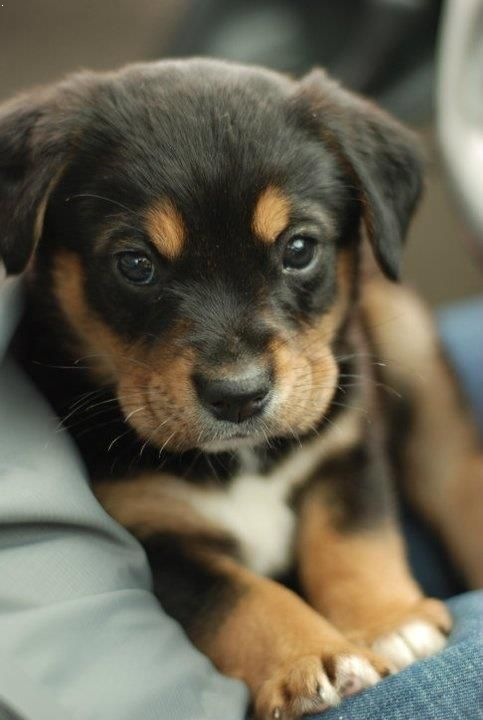
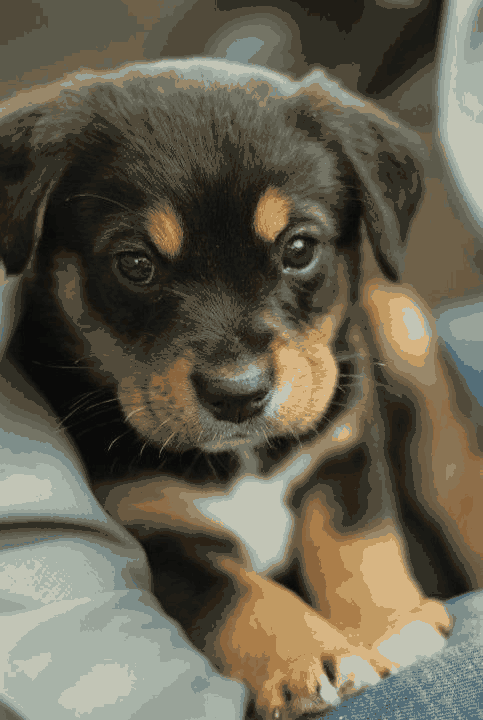
Implemented k_means clustering fully

diff --git a/quantize_k_means.py b/quantize_k_means.py
@@ -5,7 +5,7 @@ img = Image.open("puppy.jpg") # Just put the local filename in quotes.
 # img.show() # Send the image to your OS to be displayed as a temporary file (the before picture)
 WIDTH, HEIGHT = img.size
 pix = img.load() # Pix is a pixel manipulation object; we can assign pixel values and img will change as we do so.
-K = 8
+K = 27
 """
 Chooses the initial K pixels to begin K-means clustering
 Input: N/A
@@ -69,21 +69,11 @@ def calc_averages(means, result_list):
         means[i] = new_avg # Change this to be the newly calculated mean
     return means
 
-def find_best_mean(means, curr_rgb):
-    smallest_error = 1000000
-    smallest_mean = None
-    for i in range(len(means)):
-        error = squared_error(means[i], curr_rgb)
-        if error > smallest_error:
-            smallest_error = error
-            smallest_mean = i
-
 def k_means():
     means, result_list = choose_initial_pixels()
 
     means = calc_averages(means, result_list) # Recalculate the means based on what we added in the first batch
-    print("first mean")
-    print(means)
+
     old_means = [means[i] for i in range(len(means))] # Get the old means
     changed = 1000
     while changed > 0:
@@ -103,12 +93,13 @@ def k_means():
 
 
         # Now we will iterate through the to_move list and move all the values as needed
+        t = 0
         for value in to_move:
-            start_index, end_index, rgb_info = value
+            # start_index, end_index, rgb_info = value
             # # Before we move the value, first recalculate the mean for both of the means involved in this
             # r, g, b = rgb_info[0] # Get the rgb values for the one we are trying to move
             # occurences = rgb_info[1] # Need to account for the fact that multiple of this rgb value may appear
-
+            
             # # RECALCULATE for the mean we are removing this from:
             # old_r, old_g, old_b = means[start_index]
             # old_length = len(result_list[start_index])
@@ -135,26 +126,37 @@ def k_means():
 
             # means[end_index] = (new_r, new_g, new_b)
             
-            result_list[start_index].remove(rgb_info) # Remove it from the original place
-            result_list[end_index].append(rgb_info) # Add it to the new mean that works best for it
-        # means = calc_averages(means, result_list)
+            # print(len(result_list[start_index]))
+            # result_list[start_index].remove(rgb_info) # Remove it from the original place
+            # result_list[end_index].append(rgb_info) # Add it to the new mean that works best for it
+
+            t += 1
+        means = calc_averages(means, result_list)
         print(means)
+        new_means = [means[i] for i in range(len(means))]
+        changed = 0
+        for i in range(len(new_means)):
+            if new_means[i] != old_means[i]:
+                changed += 1
+            old_means[i] = new_means[i]
+    return means, result_list
 
-        # new_means = [mean[i] for mean in means]
-        # changed = 0
-        # for i in range(len(new_means)):
-        #     if new_means[i] != old_means[i]:
-        #         changed += 1
-        #     old_means[i] = new_means[i]
-        changed -= 1
-    return means
+def process_results(means, result_list):
+    color_map = dict()
+    for i in range(len(result_list)):
+        for j in range(len(result_list[i])):
+            color_map[result_list[i][j][0]] = means[i] # Map all the colors to the mean it will be associated with
 
-def count_list(means):
-    pass
-
+    for h in range(HEIGHT):
+        for w in range(WIDTH):
+            r,g,b = color_map[pix[w,h]]
+            pix[w,h] = (int(r), int(g), int(b))
+    img.show()
+    img.save("my_image.png")
+    
 
 def main():
-    k_means()
-
+    means, result_list = k_means()
+    process_results(means, result_list)
 if __name__ == "__main__":
     main()
